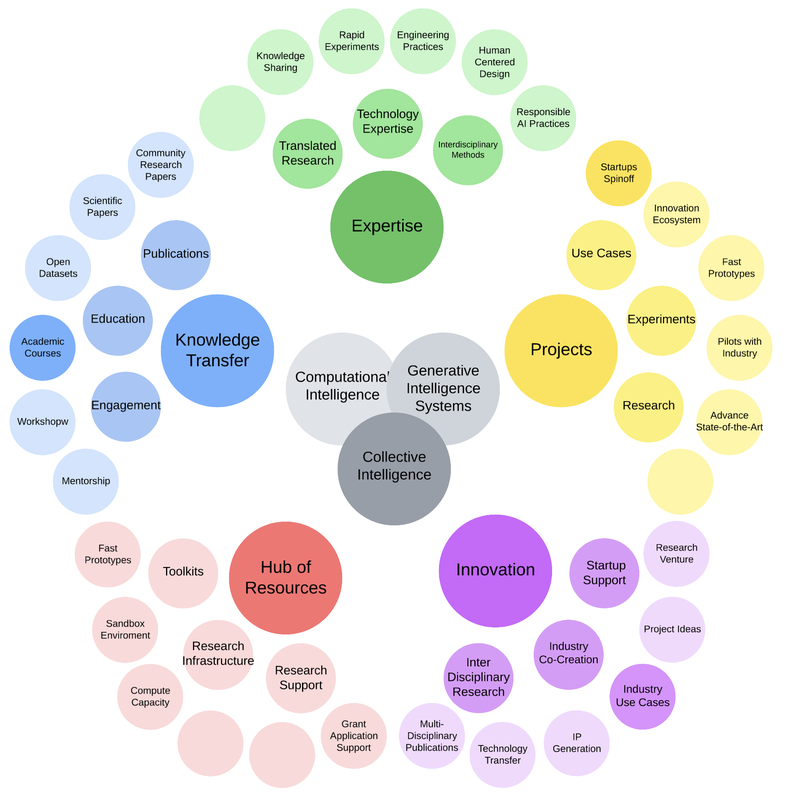
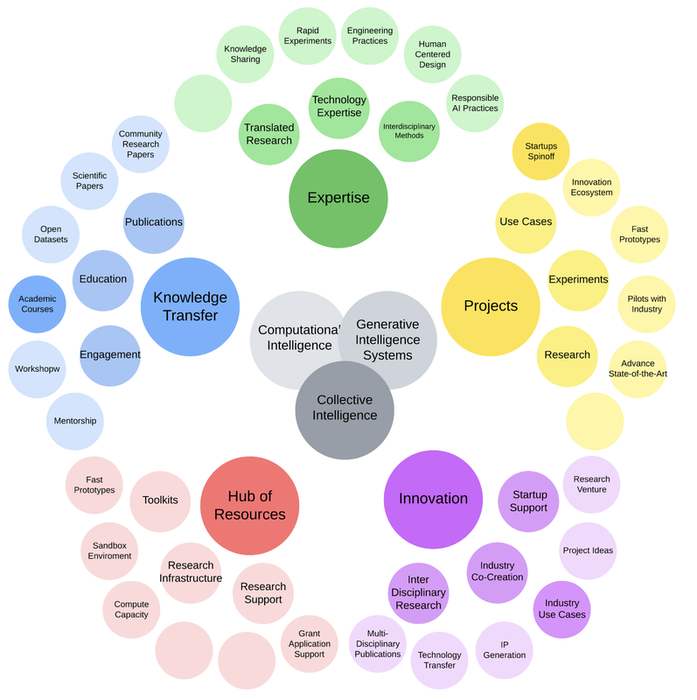
updates

diff --git a/images/_icon.py b/images/_icon.py
@@ -14,7 +14,7 @@ def main():
         {"pattern": "use-*.png", "size": (150, 150)},
         {"pattern": "*-icon.png", "size": (200, 200)},
         {"pattern": "*-headshot.png", "size": (None, 200)}, 
-        {"pattern": "*-info.png", "size": (None, 800)}, 
+        {"pattern": "*-info.png", "size": (None, 700)}, 
     ]
 
     # Process each task
